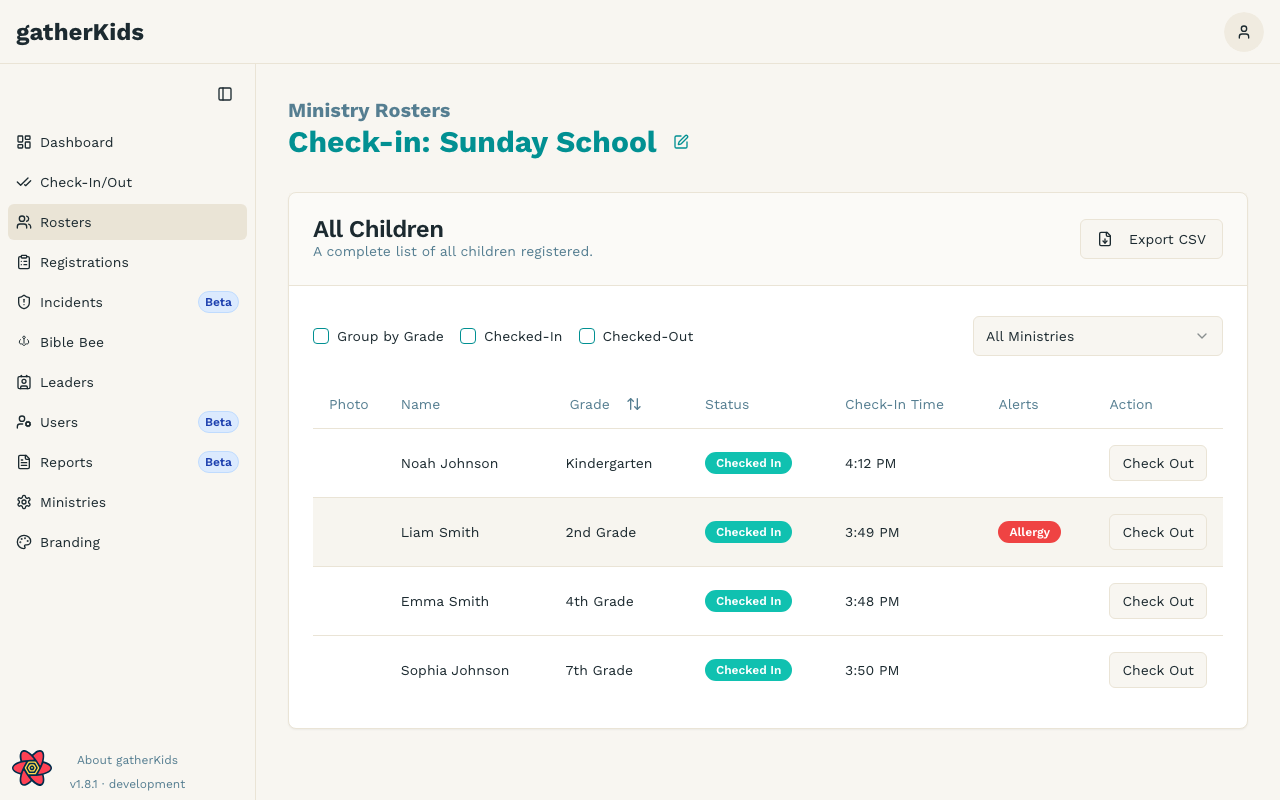
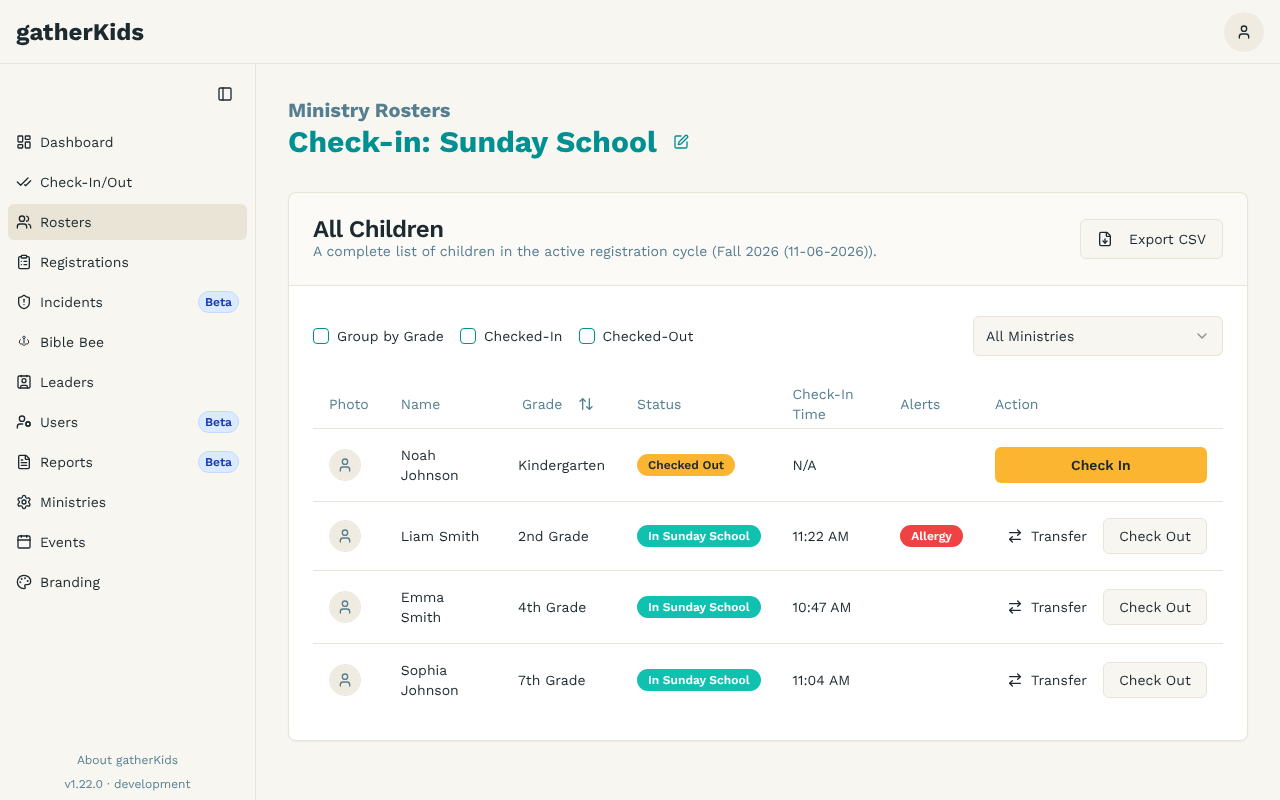
docs(help): rules for when help screenshots are updated, and refresh them (#570)
* docs(help): rules for when help screenshots are updated, and refresh them

Nothing decided when the in-app guide's screenshots were updated, and
docs:validate only checks that a referenced image exists. They were last
captured on Aug 30 and no longer matched the app.

Rules (docs/HELP_DOCS.md, PR template, pr-evidence and verify-change
skills, CI_CD.md release steps):
- A PR that changes a screen pictured in /help, or adds a guide section for
  a new screen, updates the screenshots or says in the PR why not. A table
  maps each pictured screen to its images and pages.
- While the release-please Release PR is open, refresh the screenshots
  against that main commit and merge any changes first as a
  docs(help): refresh screenshots for vX.Y.Z PR.

Refresh: all 17 screenshots recaptured from local seeded synthetic data,
plus two new ones for sections that had none: check-in-transfer.png
(Transfer dialog) and events-admin.png (Events screen), referenced from the
guide.

Fixes needed to capture at all:
- capture-help-screenshots: put the role in app_metadata too. RLS reads the
  role from there, so the "admin" was a GUEST and staff screens came out
  empty.
- capture-help-screenshots: stop adding translate(-50%,-50%) as a transform
  on dialogs (Tailwind v4 already centres with the translate property),
  which pushed every dialog half off-screen; find the Edit Child first-name
  field by name (its id is generated).
[…]

diff --git a/src/hooks/data/bibleBee.ts b/src/hooks/data/bibleBee.ts
@@ -23,6 +23,7 @@ import { queryKeys } from './keys';
 import { cacheConfig } from './config';
 import type { Scripture } from '@/lib/types';
 import { enrollmentsForActiveBibleBeeCycle } from '@/lib/bible-bee-cycle';
+import { getScriptureProgress } from '@/lib/bible-bee-progress';
 
 async function listActiveCycleEnrollments(childId: string) {
 	const [enrollments, cycles] = await Promise.all([
@@ -432,11 +433,10 @@ export function useToggleScriptureMutation(childId: string, cycleId?: string) {
           ? old.bbStats.completedScriptures + 1
           : old.bbStats.completedScriptures - 1;
         
-        const percent = old.bbStats.requiredScriptures > 0 
-          ? (completedScriptures / old.bbStats.requiredScriptures) * 100 
-          : 0;
-        
-        const bonus = Math.max(0, completedScriptures - old.bbStats.requiredScriptures);
+        const { percent, bonus } = getScriptureProgress(
+          completedScriptures,
+          old.bbStats.requiredScriptures,
+        );
         
         return {
           ...old,
@@ -769,8 +769,7 @@ export function useBibleBeeStats(childId: string, cycleId?: string) {
           const completed = scriptures
             .filter((s: any) => s.status === 'completed')
             .reduce((sum: number, s: any) => sum + (s.counts_for || 1), 0);
-          const percent = required > 0 ? (completed / required) * 100 : 0;
-          const bonus = Math.max(0, completed - required);
+          const { percent, bonus } = getScriptureProgress(completed, required);
 
           // Check if there's an essay assigned
           const essayAssigned = validEssays.length > 0;

diff --git a/__tests__/components/bible-bee-progress-card.test.tsx b/__tests__/components/bible-bee-progress-card.test.tsx
@@ -1,0 +1,46 @@
+import React from 'react';
+import { render, screen } from '@testing-library/react';
+import { BibleBeeProgressCard } from '@/components/gatherKids/bible-bee-progress-card';
+
+jest.mock('@/contexts/auth-context', () => ({
+	useAuth: () => ({ userRole: 'GUARDIAN' }),
+}));
+jest.mock('@/hooks/data', () => ({ useChild: jest.fn() }));
+jest.mock('@/components/ui/progress', () => ({
+	Progress: ({ value }: { value: number }) => (
+		<div data-testid="progress" data-value={value} />
+	),
+}));
+
+describe('BibleBeeProgressCard', () => {
+	it('caps progress at 100% and shows extra scriptures as a bonus', () => {
+		render(
+			<BibleBeeProgressCard
+				childId="child-1"
+				childName="Sophia Johnson"
+				completedScriptures={4}
+				requiredScriptures={3}
+			/>
+		);
+
+		expect(screen.getByText('100%')).toBeInTheDocument();
+		expect(screen.queryByText('133%')).not.toBeInTheDocument();
+		expect(screen.getByText(/3\/3/)).toHaveTextContent('3/3 · +1 bonus');
+		expect(screen.getByTestId('progress')).toHaveAttribute('data-value', '100');
+	});
+
+	it('shows plain progress when the requirement is not yet met', () => {
+		render(
+			<BibleBeeProgressCard
+				childId="child-2"
+				childName="Noah Johnson"
+				completedScriptures={1}
+				requiredScriptures={3}
+			/>
+		);
+
+		expect(screen.getByText('33%')).toBeInTheDocument();
+		expect(screen.getByText('1/3')).toBeInTheDocument();
+		expect(screen.queryByText(/bonus/)).not.toBeInTheDocument();
+	});
+});

diff --git a/src/components/gatherKids/bible-bee-progress-card.tsx b/src/components/gatherKids/bible-bee-progress-card.tsx
@@ -9,6 +9,7 @@ import { Progress } from '@/components/ui/progress';
 import { ExternalLink, BookOpen, FileText } from 'lucide-react';
 import { useQueryClient } from '@tanstack/react-query';
 import { useChild } from '@/hooks/data';
+import { getScriptureProgress } from '@/lib/bible-bee-progress';
 
 interface BibleBeeProgressCardProps {
 	childId: string;
@@ -141,8 +142,13 @@ export function BibleBeeProgressCard({
 		}
 	};
 
-	const denom = requiredScriptures || 1; // Use requiredScriptures as the denominator (division target)
-	const progressPct = denom === 0 ? 0 : (completedScriptures / denom) * 100;
+	// Progress toward the division's requirement; extra scriptures are a bonus,
+	// so the percentage never goes past 100%.
+	const {
+		percent: progressPct,
+		countedTowardRequired,
+		bonus,
+	} = getScriptureProgress(completedScriptures, requiredScriptures);
 
 	// Determine the appropriate link path
 	const href =
@@ -226,7 +232,8 @@ export function BibleBeeProgressCard({
 									{Math.round(progressPct)}%
 								</div>
 								<div className="text-xs text-muted-foreground">
-									{completedScriptures}/{requiredScriptures}
+									{countedTowardRequired}/{requiredScriptures}
+									{bonus > 0 && ` · +${bonus} bonus`}
 								</div>
 							</div>
 						)}

diff --git a/__tests__/lib/bible-bee-progress.test.ts b/__tests__/lib/bible-bee-progress.test.ts
@@ -1,0 +1,44 @@
+import { getScriptureProgress } from '@/lib/bible-bee-progress';
+
+describe('getScriptureProgress', () => {
+	it('reports partial progress toward the requirement', () => {
+		expect(getScriptureProgress(2, 4)).toEqual({
+			percent: 50,
+			countedTowardRequired: 2,
+			bonus: 0,
+		});
+	});
+
+	it('reports exactly 100% when the requirement is met', () => {
+		expect(getScriptureProgress(3, 3)).toEqual({
+			percent: 100,
+			countedTowardRequired: 3,
+			bonus: 0,
+		});
+	});
+
+	it('caps at 100% and counts extra scriptures as bonus', () => {
+		expect(getScriptureProgress(4, 3)).toEqual({
+			percent: 100,
+			countedTowardRequired: 3,
+			bonus: 1,
+		});
+	});
+
+	it('returns 0% with no requirement and treats completions as bonus', () => {
+		expect(getScriptureProgress(2, 0)).toEqual({
+			percent: 0,
+			countedTowardRequired: 0,
+			bonus: 2,
+		});
+		expect(getScriptureProgress(undefined, undefined)).toEqual({
+			percent: 0,
+			countedTowardRequired: 0,
+			bonus: 0,
+		});
+	});
+
+	it('ignores negative counts', () => {
+		expect(getScriptureProgress(-1, 3).percent).toBe(0);
+	});
+});

diff --git a/scripts/seed/dev_seed.js b/scripts/seed/dev_seed.js
@@ -32,8 +32,25 @@ const SMITH_HOUSEHOLD = 'Smith Family';
 const JOHNSON_HOUSEHOLD = 'Johnson Family';
 
 // Supabase client setup
+//
+// Since the RLS work (#495) the anon key cannot create registration cycles,
+// ministries and the rest, so seeding with it fails on the first insert.
+// Against a LOCAL stack the seed uses the service-role key when one is set
+// (as `.env.local` from `supabase status` provides). It never uses the
+// service-role key against a non-local URL: that would let a dev seed write
+// past RLS into a shared database.
 const supabaseUrl = process.env.NEXT_PUBLIC_SUPABASE_URL;
-const supabaseKey = process.env.NEXT_PUBLIC_SUPABASE_ANON_KEY;
+const isLocalSupabase = (() => {
+	try {
+		const host = new URL(supabaseUrl).hostname;
+		return host === 'localhost' || host === '127.0.0.1' || host === '::1';
+	} catch {
+		return false;
+	}
+})();
+const supabaseKey =
+	(isLocalSupabase && process.env.SUPABASE_SERVICE_ROLE_KEY) ||
+	process.env.NEXT_PUBLIC_SUPABASE_ANON_KEY;
 
 if (!supabaseUrl || !supabaseKey) {
 	console.error('❌ Missing Supabase environment variables');

diff --git a/src/lib/bible-bee-progress.ts b/src/lib/bible-bee-progress.ts
@@ -1,0 +1,33 @@
+/**
+ * Scripture progress toward a division's required count.
+ *
+ * A child can memorize more scriptures than their division requires. The
+ * extra ones are a bonus, not progress past 100%, so the percentage is capped
+ * and the overflow is reported separately.
+ */
+export interface ScriptureProgress {
+	/** Percent of the requirement met, 0–100. */
+	percent: number;
+	/** Completed scriptures that count toward the requirement (≤ required). */
+	countedTowardRequired: number;
+	/** Completed scriptures beyond the requirement. */
+	bonus: number;
+}
+
+export function getScriptureProgress(
+	completed: number | null | undefined,
+	required: number | null | undefined,
+): ScriptureProgress {
+	const done = Math.max(0, Number(completed) || 0);
+	const target = Math.max(0, Number(required) || 0);
+
+	if (target === 0) {
+		return { percent: 0, countedTowardRequired: 0, bonus: done };
+	}
+
+	return {
+		percent: Math.min(100, (done / target) * 100),
+		countedTowardRequired: Math.min(done, target),
+		bonus: Math.max(0, done - target),
+	};
+}

diff --git a/src/components/gatherKids/bible-bee-progress-list.tsx b/src/components/gatherKids/bible-bee-progress-list.tsx
@@ -256,7 +256,9 @@ export function BibleBeeProgressList({
 			const pct = r.essayStatus === 'submitted' ? 100 : 0;
 			return { ...r, progressPct: pct };
 		} else {
-			// Scripture tracks: normal percentage calculation using requiredScriptures as denominator
+			// Scripture tracks: percentage of requiredScriptures. Left uncapped here so
+			// children with bonus scriptures sort above those who just met the target;
+			// the card caps what it displays at 100%.
 			const denom = r.requiredScriptures || 1;
 			const pct = denom === 0 ? 0 : (r.completedScriptures / denom) * 100;
 			return { ...r, progressPct: pct };

diff --git a/docs/HELP_DOCS.md b/docs/HELP_DOCS.md
@@ -30,6 +30,48 @@ Do not hand-edit `doc-site/releases/` (removed). [release-please](https://github
 - Duplicate squash-merge lines are collapsed.
 - Smoke: `npm run help:parse-changelog`
 
+## When screenshots must be updated
+
+Screenshots go stale silently: `npm run docs:validate` only checks that a referenced image exists, not that it still matches the app. Two rules keep them current.
+
+### 1. In the PR that changes the screen
+
+A PR must **update the affected guide screenshots, or say in the PR why not**, when it:
+
+- changes what a screen in the table below looks like or does (a new button, column, dialog, status, or wording), or
+- adds a guide section for a new screen or feature.
+
+"Why not" is a sentence in the PR, for example "layout unchanged; only the toast copy changed" or "screenshot deferred to the release refresh". It is not silence. For a new screen, add a `shot(...)` step to `scripts/capture-help-screenshots.mjs` and reference the image from the new section.
+
+Which screens are pictured (image in `public/help/screenshots/`, used by `content/help/`):
+
+| Screen (route) | Screenshot | Used in |
+|----------------|------------|---------|
+| Landing `/` | `registration-landing.png` | `getting-started.md` |
+| Dashboard `/admin-overview` | `leader-dashboard.png` | `leader-tools/dashboard.md` |
+| Check-in `/check-in` | `check-in-list.png`, `check-in-success.png`, `check-out.png`, `check-in-transfer.png` | `check-in-out/overview.md`, `check-in-process.md`, `check-out-process.md` |
+| Rosters `/rosters` | `leader-roster.png` | `leader-tools/rosters.md` |
+| Incidents `/incidents` | `leader-incidents.png` | `leader-tools/incidents.md` |
+| Events `/events` | `events-admin.png` | `check-in-out/overview.md` |
+| Ministries `/ministries` | `ministry-list.png`, `ministry-enrollment-config.png` | `ministry-management/overview.md`, `configuration.md`, `enrollments.md` |
+| Bible Bee `/bible-bee` | `bible-bee-overview.png`, `bible-bee-progress.png` | `bible-bee/overview.md`, `progress-tracking.md` |
+| Registration `/register` | `registration-household-form.png`, `registration-child-profile.png`, `registration-returning-welcome.png` | `registration/getting-started.md`, `child-profiles.md` |
+| Household `/household` | `household-profile-accordion.png`, `household-edit-child-dialog.png`, `household-bible-bee-progress.png` | `registration/household-management.md`, `child-profiles.md` |
+
+Keep this table in step with the capture script when screenshots are added or removed.
+
+PR review screenshots (the "UI screenshots or recordings" checklist item) are a separate thing: they are evidence for the reviewer, posted on the PR. This rule is about the images committed under `public/help/screenshots/`.
+
+### 2. Before each release
+
+While the release-please **Release PR** is open, and before it is merged:
+
+1. Check out `main` at the commit the Release PR covers, reset and seed the local stack, and run `npm run help:capture-screenshots` (see below).
+2. If any image changed, open a PR titled `docs(help): refresh screenshots for vX.Y.Z` with the new PNGs and the updated `CAPTURE_META.json`. Spot-check every image for PII. The `docs` scope keeps it out of the release notes.
+3. Merge it before the Release PR, so the release ships a guide that matches it. If nothing changed, note "help screenshots: no changes" on the Release PR.
+
+Do not push to the Release PR's own branch; release-please owns it and may rewrite it.
+
 ## Screenshots (Playwright, synthetic data only)
 
 **Capture locally** against seeded local Supabase. Do **not** point the script at production (`gatherkidslive.com`) or at UAT unless UAT was fully reset to synthetic seed data.

diff --git a/.agents/skills/pr-evidence/SKILL.md b/.agents/skills/pr-evidence/SKILL.md
@@ -39,6 +39,7 @@ Copy into the PR (also in [`.github/PULL_REQUEST_TEMPLATE.md`](../../../.github/
 - [ ] Commands run with exact pass/fail results
 - [ ] Relevant unit, integration or E2E coverage added or updated
 - [ ] UI screenshots or recordings attached, or marked not applicable
+- [ ] Help guide screenshots (`public/help/screenshots/`) updated, or the reason they were not is stated, when this changes a screen pictured in `/help` or adds a guide section for a new screen. Otherwise mark not applicable. See [docs/HELP_DOCS.md](../../../docs/HELP_DOCS.md#when-screenshots-must-be-updated).
 - [ ] Accessibility and responsive behaviour checked where applicable
 - [ ] Schema/migration impact documented, or marked none (`Schema change: documented` when `supabase/migrations/` changes; `Schema change: none` otherwise)
 - [ ] Release state named when the diff changes deploy or promotion (`Build complete`, `UAT schema pending`, `UAT verified`, `Production approval pending`, `Production DB verified`, `Production released`). A Vercel build is not `Production released`.

diff --git a/docs/CI_CD.md b/docs/CI_CD.md
@@ -100,6 +100,7 @@ See [`docs/CONTRIBUTING.md`](./CONTRIBUTING.md) and [`commitlint.config.js`](../
 
 1. Conventional commits land on **`main`** via squash merge. That is **Build complete**.
 2. [`release-please.yml`](../.github/workflows/release-please.yml) opens a **Release PR** updating `package.json` + `CHANGELOG.md`.
+   - Before merging it, refresh the in-app help screenshots against that `main` commit and merge any changes as a separate `docs(help): refresh screenshots for vX.Y.Z` PR. See [`docs/HELP_DOCS.md`](./HELP_DOCS.md#2-before-each-release).
 3. Merging the Release PR creates git tag `vX.Y.Z` and a GitHub Release. The tag is the app version, not a database release and not production traffic.
 4. **UAT verified** and **Production released** are separate manual workflows. A green Vercel build does not complete either one.
 

diff --git a/.github/PULL_REQUEST_TEMPLATE.md b/.github/PULL_REQUEST_TEMPLATE.md
@@ -32,6 +32,7 @@ Schema change: none
 - [ ] Commands run with exact pass/fail results
 - [ ] Relevant unit, integration or E2E coverage added or updated
 - [ ] UI screenshots or recordings attached, or marked not applicable
+- [ ] Help guide screenshots (`public/help/screenshots/`) updated, or the reason they were not is stated, when this changes a screen pictured in `/help` or adds a guide section for a new screen. Otherwise mark not applicable. See [docs/HELP_DOCS.md](../docs/HELP_DOCS.md#when-screenshots-must-be-updated).
 - [ ] Accessibility and responsive behaviour checked where applicable
 - [ ] Schema/migration impact documented, or marked none
 - [ ] Release state named if this changes deploy or promotion. A Vercel build is not `Production released`. See [docs/CI_CD.md](../docs/CI_CD.md#release-states).

diff --git a/content/help/user-guide/check-in-out/overview.md b/content/help/user-guide/check-in-out/overview.md
@@ -23,6 +23,8 @@ Select the gathering (for example, Sunday service) before checking children in s
 
 Admins manage the list of events under **Events** in the menu.
 
+![Events screen](/help/screenshots/events-admin.png)
+
 - **Add** an event to make it available for check-in and as a transfer destination straight away.
 - **Rename** an event to change its name everywhere, including on past attendance. The event and its history stay the same.
 - **Archive** an event you no longer run. It disappears from the event pickers and takes no new check-ins, but its history is kept. Any child still checked in to it can be checked out or transferred out as usual. Its door stays available until the last child has left. You can **Restore** an archived event at any time.
